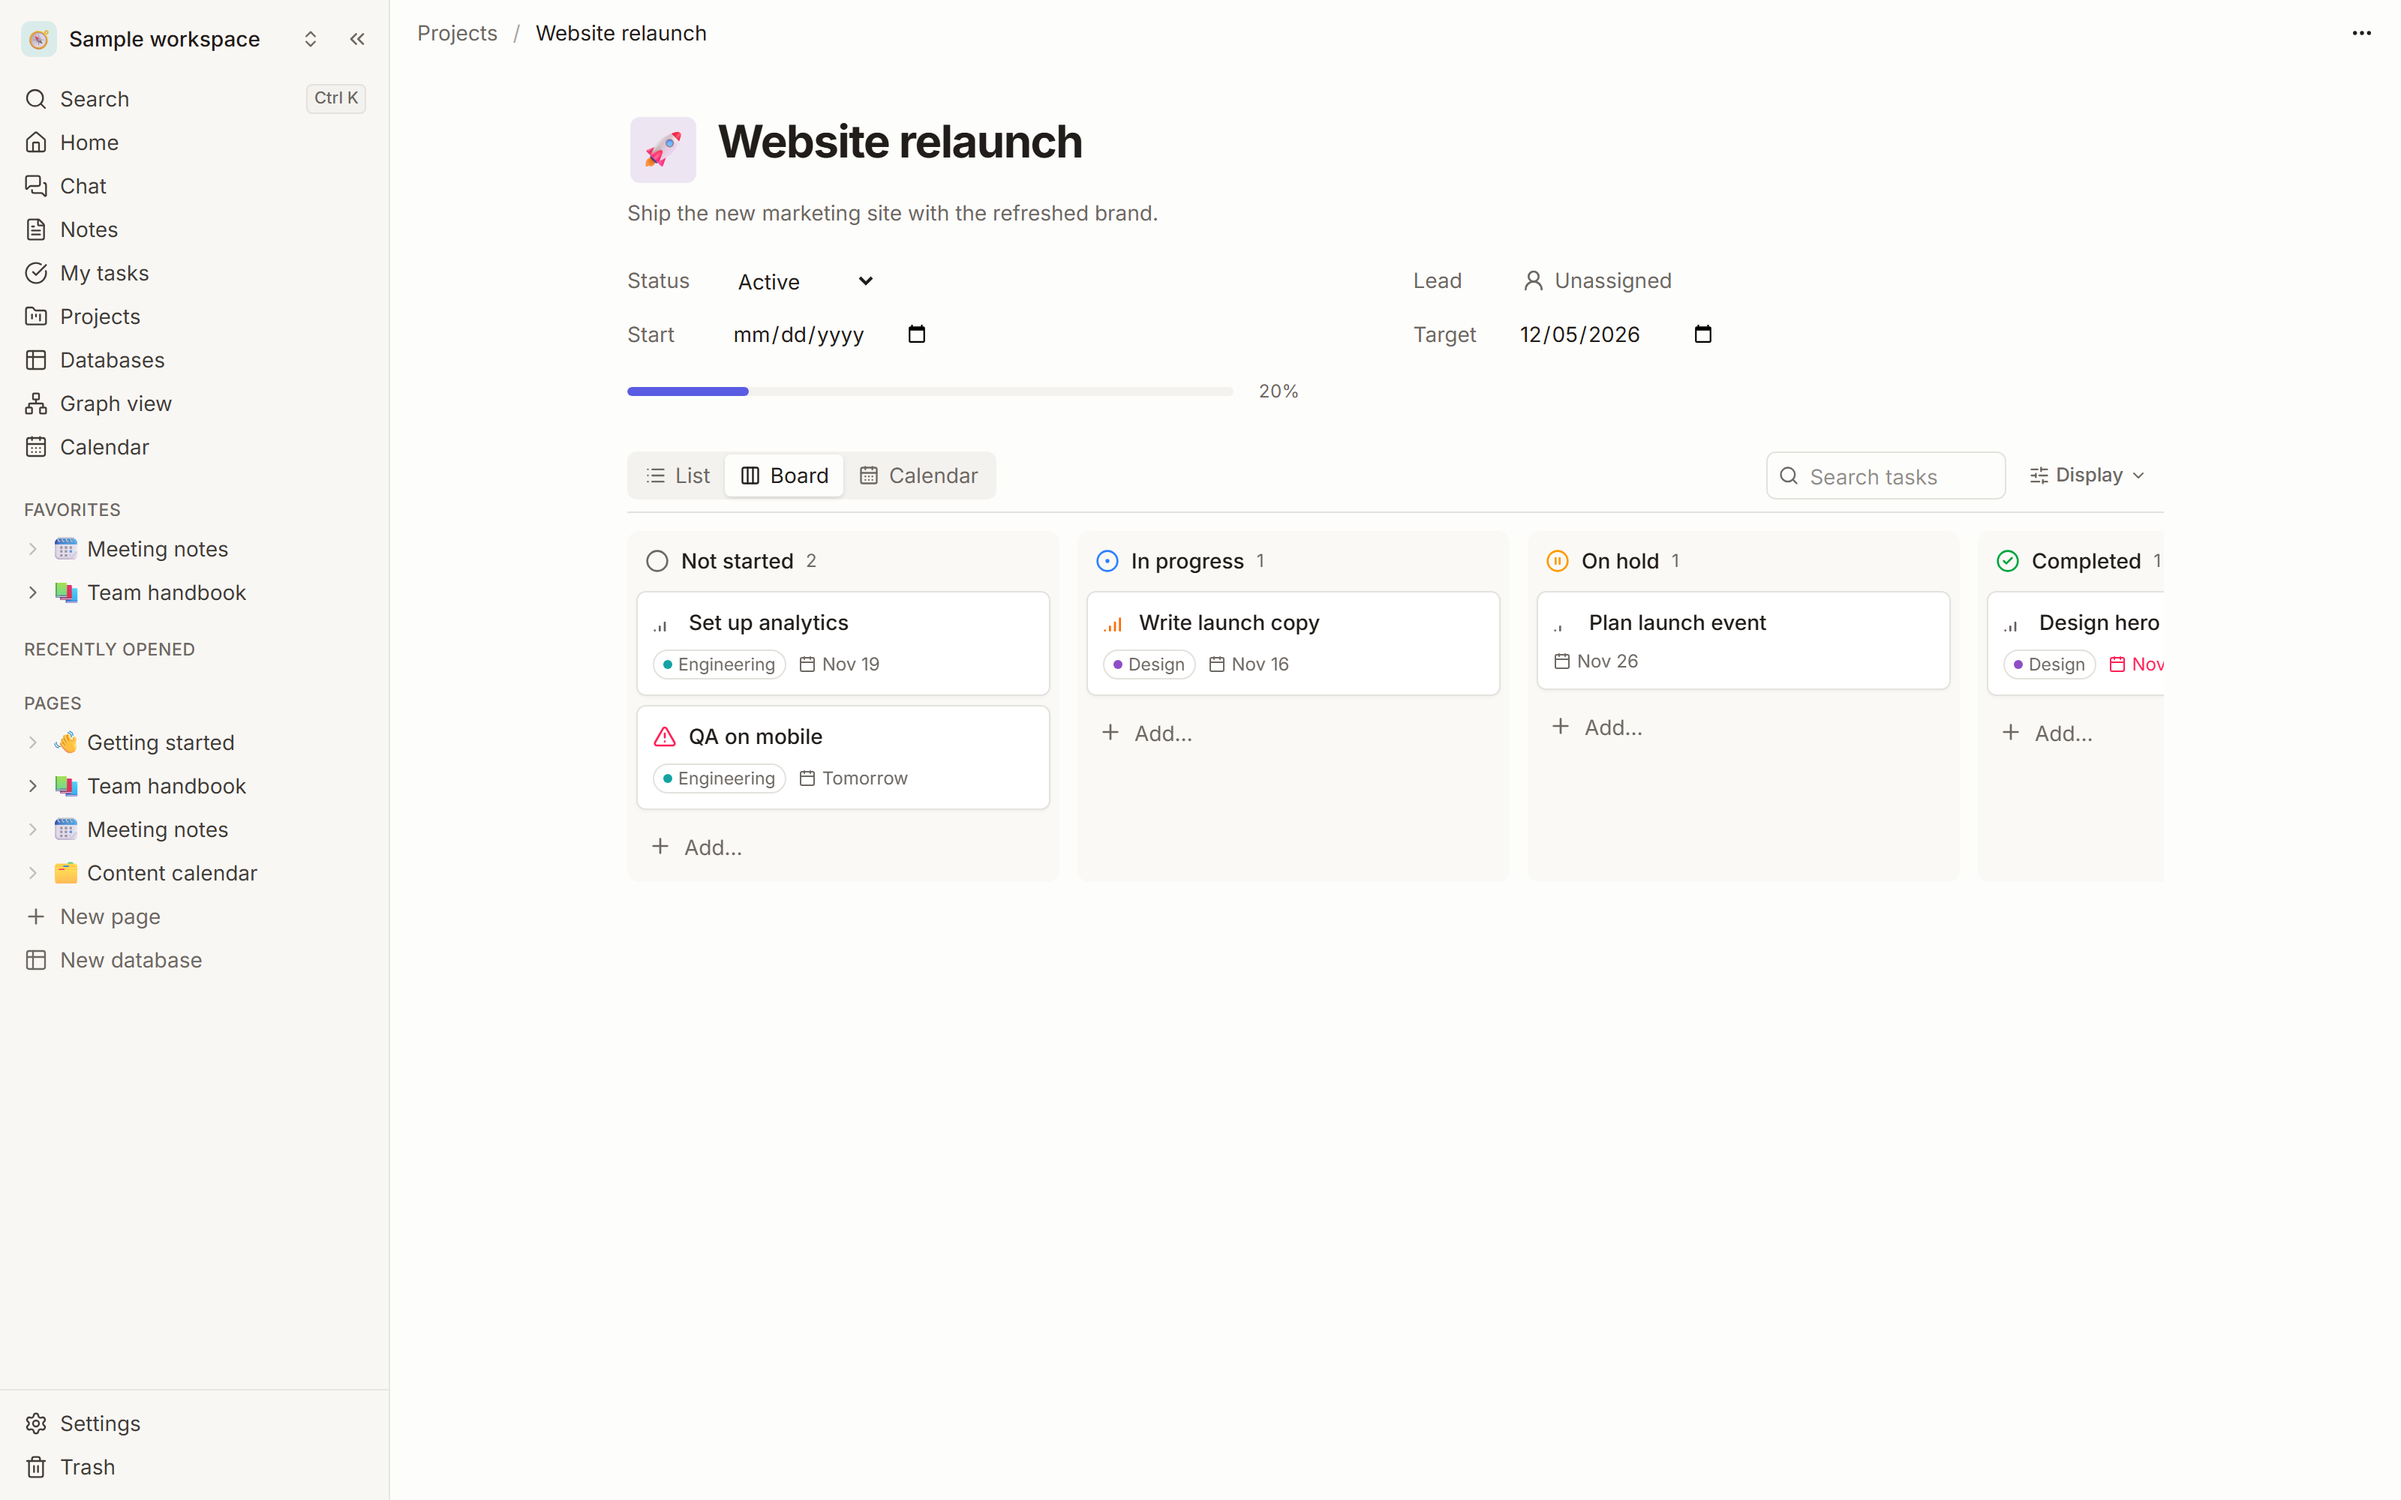
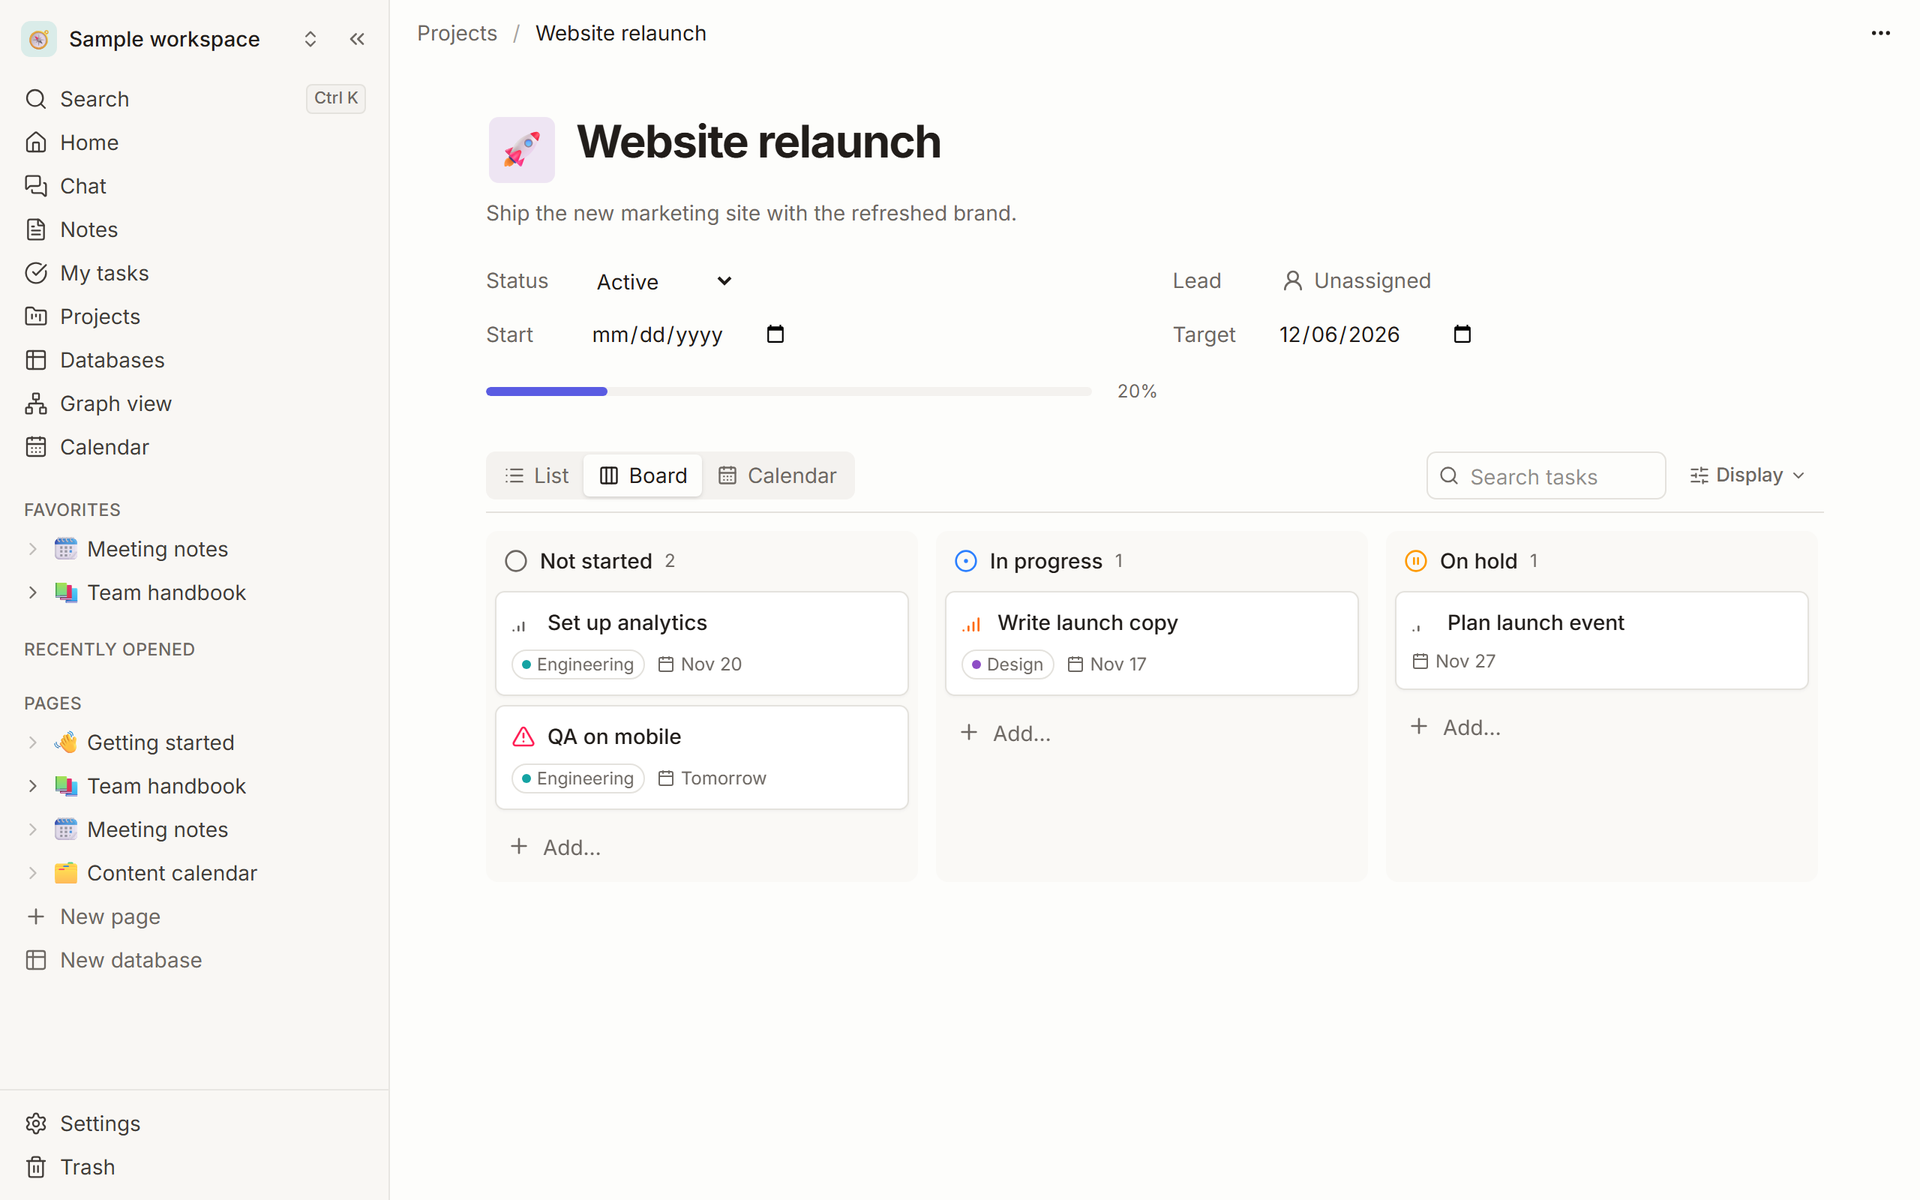
README: sharper screenshots in light and dark, no wrapping gaps
The page and board screenshots sat side by side at width=420, which is wider
than GitHub's README column allows, so they wrapped onto separate rows with
gaps. They were also taken in a 1600x1000 window, so the UI was tiny once
scaled down.

- Retake every screenshot at a 1280x800 window, 2x density (2560x1600),
  from the sample workspace with recent pages and favorites filled in.
- Hero and gallery use <picture> to show dark versions on GitHub's dark theme.
- New Screenshots section: notes with backlinks, project board, database
  table, each full width with a caption. Nav link added.
- `@agents` in backticks so GitHub doesn't link it to a user.
- npm run screenshots (scripts/readme-screenshots.mjs) retakes them.

diff --git a/README.md b/README.md
@@ -25,6 +25,7 @@
 <p align="center">
   <a href="https://github.com/Layfate/skele/releases/latest"><b>Download</b></a> •
   <a href="#features"><b>Features</b></a> •
+  <a href="#screenshots"><b>Screenshots</b></a> •
   <a href="#install"><b>Install</b></a> •
   <a href="#where-your-data-lives"><b>Your data</b></a> •
   <a href="#development"><b>Development</b></a> •
@@ -39,12 +40,10 @@ Skele runs as a **desktop app** for Windows, macOS and Linux, and as an installa
 (PWA) in any modern browser.
 
 <p align="center">
-  <img src="docs/screenshots/home.png" alt="Skele's home screen with the sidebar, recent pages and tasks" width="860">
-</p>
-
-<p align="center">
-  <img src="docs/screenshots/page.png" alt="A note with wiki links and backlinks" width="420">
-  <img src="docs/screenshots/board.png" alt="A project's task board" width="420">
+  <picture>
+    <source media="(prefers-color-scheme: dark)" srcset="docs/screenshots/home-dark.png">
+    <img src="docs/screenshots/home.png" alt="Skele's home screen: sidebar, recently visited pages, favorites and your tasks" width="100%">
+  </picture>
 </p>
 
 ## Features
@@ -59,7 +58,7 @@ Skele runs as a **desktop app** for Windows, macOS and Linux, and as an installa
 - **Offline:** everything works without a network connection
 - **AI workspace (optional):** chat with Claude, Codex or a local model (Ollama) about your
   notes. The desktop app uses your existing Claude Code / Codex sign-in and can let them read
-  or edit a folder you choose, with MCP servers, plugins, skills, @agents that answer side by
+  or edit a folder you choose, with MCP servers, plugins, skills, `@agents` that answer side by
   side, plan-limit tracking and a local fallback. Anywhere else, bring your own Anthropic or
   OpenAI API key. Nothing is sent until you send a message. See [docs/AI.md](docs/AI.md)
 - **Colour themes:** Claude, ChatGPT, VS Code, GitHub, Nord, Dracula, Catppuccin and more,
@@ -67,6 +66,29 @@ Skele runs as a **desktop app** for Windows, macOS and Linux, and as an installa
 - **Optional Spotify** playback controls (your own Spotify app, PKCE, no secrets)
 - **Desktop app:** native window, menus and file dialogs, workspaces stored as SQLite files,
   a portable mode, and optional signed in-app updates
+
+## Screenshots
+
+**Notes** with an outline, backlinks and tags beside every page
+
+<picture>
+  <source media="(prefers-color-scheme: dark)" srcset="docs/screenshots/page-dark.png">
+  <img src="docs/screenshots/page.png" alt="The Team handbook note with the details panel showing its outline and a backlink from Meeting notes" width="100%">
+</picture>
+
+**Projects** with list, board and calendar views of their tasks
+
+<picture>
+  <source media="(prefers-color-scheme: dark)" srcset="docs/screenshots/board-dark.png">
+  <img src="docs/screenshots/board.png" alt="The Website relaunch project's task board with Not started, In progress and On hold columns" width="100%">
+</picture>
+
+**Databases** with table, board, calendar, gallery and list views
+
+<picture>
+  <source media="(prefers-color-scheme: dark)" srcset="docs/screenshots/database-dark.png">
+  <img src="docs/screenshots/database.png" alt="The Content calendar database in table view with status, date and channel columns" width="100%">
+</picture>
 
 ## Install
 
@@ -221,6 +243,7 @@ GitHub Actions (see [docs/RELEASING.md](docs/RELEASING.md)).
 | `npm run test:desktop` | End-to-end test of the built Windows app (WebView2 over CDP) |
 | `npm run desktop:dev` · `npm run desktop:build` | Tauri desktop app |
 | `npm run desktop:icons` | Regenerate every icon size from `src-tauri/app-icon.png` |
+| `npm run screenshots` | Retake the README screenshots (light and dark) from the sample workspace, after `npm run build` |
 | `npm run version:set 1.2.3` | Set the version in package.json and Cargo.toml |
 
 ### Project layout
